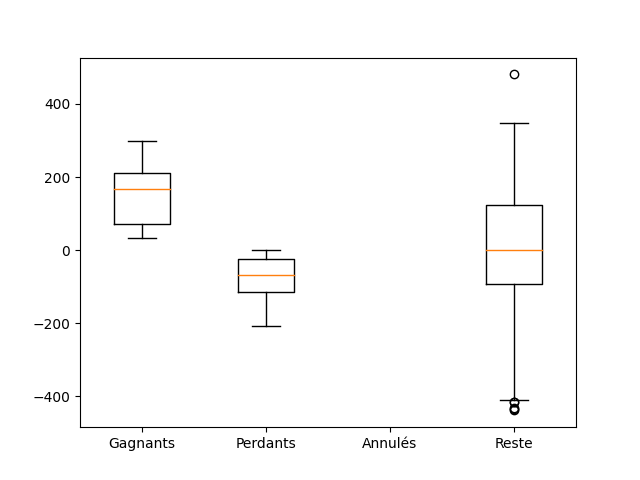
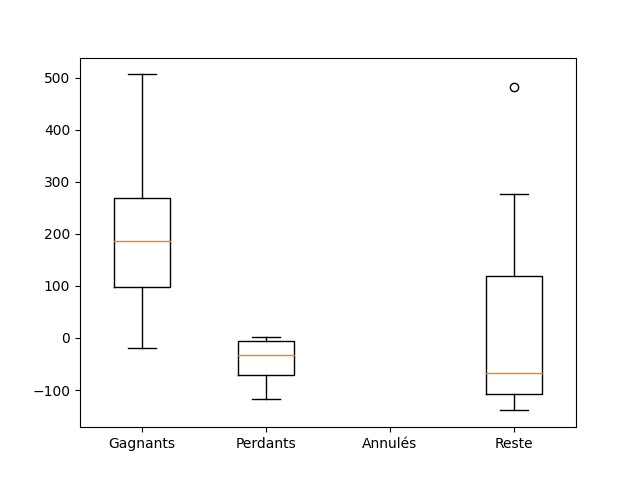
evolution graphs with respect to poisson process lambda

diff --git a/main.py b/main.py
@@ -36,9 +36,9 @@ step_length = 0.2
 num_cyclists = 500
 max_num_cyclists_same_time = 50
 
-poisson_distrib = np.random.poisson(args.poisson_lambda, 10000)
+poisson_distrib = np.random.poisson(args.poisson_lambda, 100000)
 while(sum(poisson_distrib)<num_cyclists):
-    poisson_distrib = np.random.poisson(args.poisson_lambda, 10000)
+    poisson_distrib = np.random.poisson(args.poisson_lambda, 100000)
 
 if(use_model):
     sub_folders = "w_model/"
